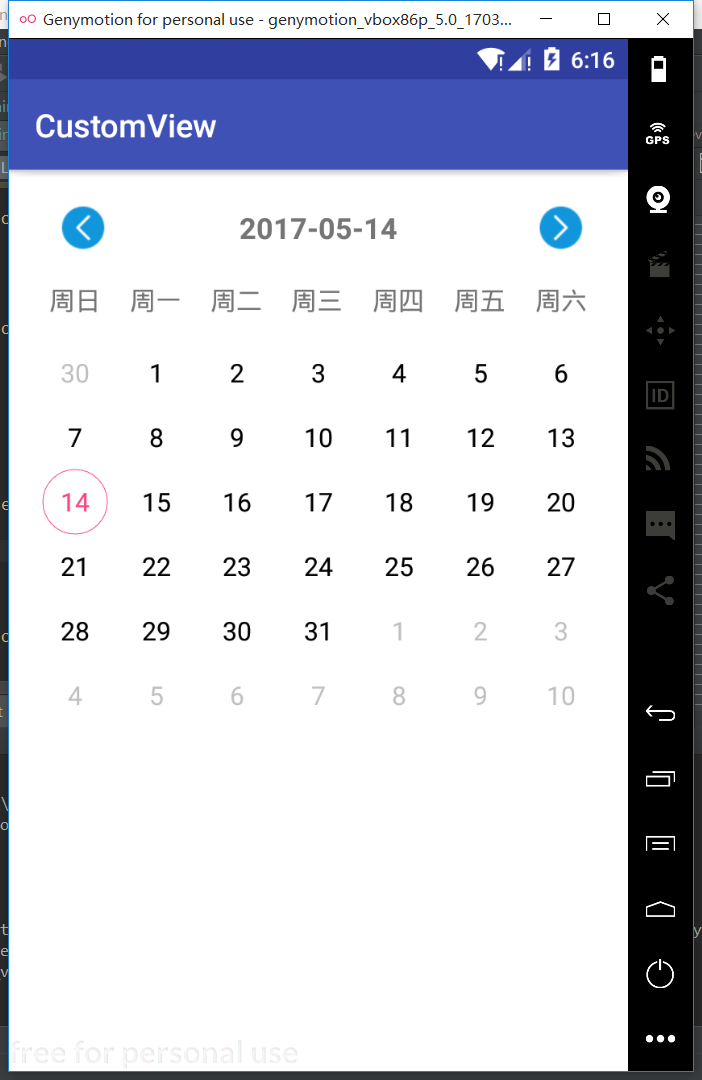
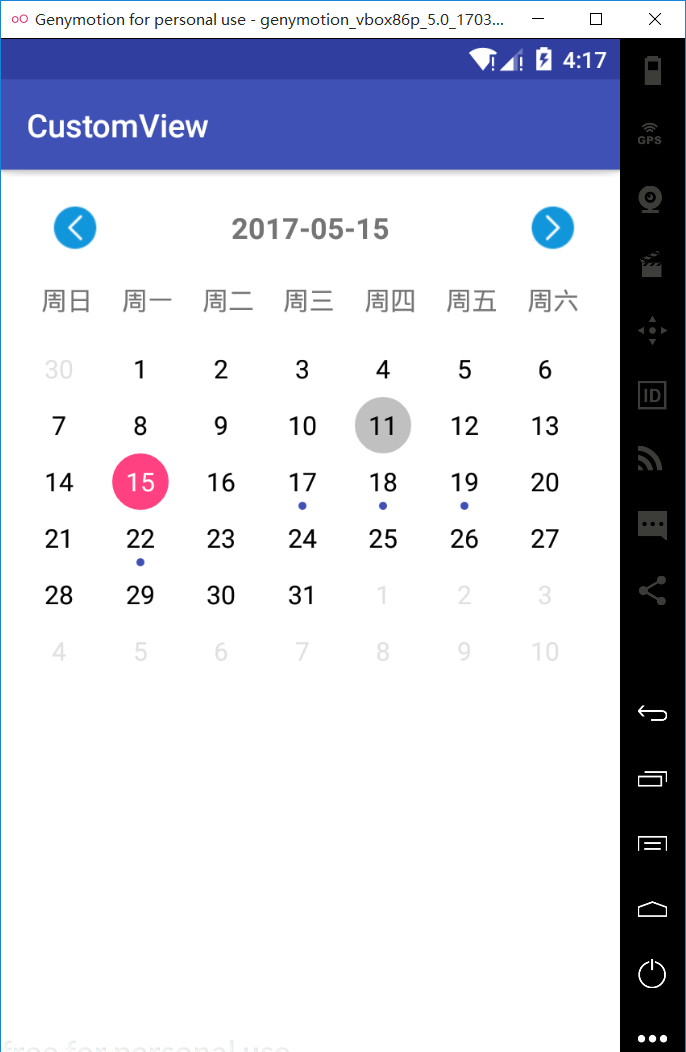
对日历进行了优化改进

diff --git a/app/src/main/java/com/wxx/customview/calendar/CalendarAdapter.java b/app/src/main/java/com/wxx/customview/calendar/CalendarAdapter.java
@@ -1,6 +1,8 @@
 package com.wxx.customview.calendar;
 
+import android.content.Context;
 import android.graphics.Color;
+import android.graphics.drawable.Drawable;
 import android.support.v7.widget.RecyclerView;
 import android.text.TextUtils;
 import android.util.Log;
@@ -15,6 +17,7 @@ import com.wxx.customview.circlebgtextview.CircleBgTextView;
 
 import java.util.ArrayList;
 import java.util.Date;
+import java.util.List;
 
 /**
  * 作者：Tangren on 2017/5/14 15:27
@@ -23,7 +26,7 @@ import java.util.Date;
  */
 public class CalendarAdapter extends RecyclerView.Adapter {
 
-    private ArrayList<Date> list=new ArrayList<>();
+    private ArrayList<Date> list = new ArrayList<>();
 
     private int currentPageMonth;
 
@@ -34,10 +37,13 @@ public class CalendarAdapter extends RecyclerView.Adapter {
 
     private int mLastCheckedPostion = -1;
 
+    private List<String> signList = new ArrayList<>();
+
     private static final String TAG = "CalendarAdapter";
+    private Context context;
 
-    public CalendarAdapter() {
-
+    public CalendarAdapter(Context context) {
+        this.context = context;
     }
 
     public void setAdd(ArrayList<Date> list, int currentPageMonth) {
@@ -46,6 +52,12 @@ public class CalendarAdapter extends RecyclerView.Adapter {
         this.currentPageMonth = currentPageMonth;
         mBooleanArray = new SparseBooleanArray(list.size());
     }
+
+    public void setAddSign(List<String> signList) {
+        this.signList.clear();
+        this.signList.addAll(signList);
+    }
+
 
     private LayoutInflater inflater;
 
@@ -75,10 +87,22 @@ public class CalendarAdapter extends RecyclerView.Adapter {
             calendarHolder.textView.setBackgroundResource(R.drawable.circle_shape);
         }
 
+
         if (!mBooleanArray.get(position) && !Util.isSameDate(date)) {
             ((CalendarHolder) holder).textView.setBackgroundResource(0);
         } else if (mBooleanArray.get(position) && !Util.isSameDate(date)) {
             ((CalendarHolder) holder).textView.setBackgroundResource(R.drawable.circle_shape_checked);
+        }
+
+
+        if (signList.size() > 0) {
+            for (int i = 0; i < signList.size(); i++) {
+                if (TextUtils.equals(Util.getTime(date), signList.get(i))) {
+                    Drawable drawable = context.getResources().getDrawable(R.drawable.circle_shape_smal);
+                    drawable.setBounds(0, 0, drawable.getMinimumWidth(), drawable.getMinimumHeight());
+                    calendarHolder.textView.setCompoundDrawables(null, null, null, drawable);
+                }
+            }
         }
 
         calendarHolder.textView.setText(String.valueOf(date.getDate()));

diff --git a/app/src/main/java/com/wxx/customview/MainActivity.java b/app/src/main/java/com/wxx/customview/MainActivity.java
@@ -17,6 +17,7 @@ import com.wxx.customview.paopaochuang.PaoPao;
 import java.text.SimpleDateFormat;
 import java.util.ArrayList;
 import java.util.Date;
+import java.util.List;
 
 public class MainActivity extends AppCompatActivity implements View.OnClickListener, TRCalendar.CalendarListener {
 
@@ -28,6 +29,7 @@ public class MainActivity extends AppCompatActivity implements View.OnClickListe
 
     private PaoPao pao;
     private TRCalendar tRcalendar;
+    private List<String> signList = new ArrayList<>();
 
     @Override
     protected void onCreate(Bundle savedInstanceState) {
@@ -36,7 +38,18 @@ public class MainActivity extends AppCompatActivity implements View.OnClickListe
         activity_main = (LinearLayout) findViewById(R.id.activity_main);
         seekBar = (SeekBar) findViewById(R.id.seekBar);
         panView = (BoardView) findViewById(R.id.panView);
+
         tRcalendar = (TRCalendar) findViewById(R.id.tRcalendar);
+        tRcalendar.setListener(this);
+        signList.add("2017-05-17");
+        signList.add("2017-05-18");
+        signList.add("2017-05-19");
+        signList.add("2017-05-22");
+        signList.add("2017-07-22");
+        signList.add("2017-09-22");
+        signList.add("2017-10-22");
+
+        tRcalendar.setAddDateSign(signList);
         activity_main.setOnClickListener(this);
         animation = new MyAnimation();
         animation.setDuration(1000);
@@ -62,7 +75,6 @@ public class MainActivity extends AppCompatActivity implements View.OnClickListe
             }
         });
 
-        tRcalendar.setListener(this);
 
     }
 

diff --git a/app/src/main/java/com/wxx/customview/calendar/TRCalendar.java b/app/src/main/java/com/wxx/customview/calendar/TRCalendar.java
@@ -17,6 +17,7 @@ import java.text.SimpleDateFormat;
 import java.util.ArrayList;
 import java.util.Calendar;
 import java.util.Date;
+import java.util.List;
 
 /**
  * 作者：Tangren on 2017/5/14 10:42
@@ -44,6 +45,8 @@ public class TRCalendar extends LinearLayout implements View.OnClickListener, On
 
     private int currentPostion = -1;
 
+    private List<String> signList = new ArrayList<>();
+
     public TRCalendar(Context context) {
         this(context, null);
     }
@@ -70,7 +73,7 @@ public class TRCalendar extends LinearLayout implements View.OnClickListener, On
         next.setOnClickListener(this);
         manager = new GridLayoutManager(context, 7);
         gridView.setLayoutManager(manager);
-        mAdapter = new CalendarAdapter();
+        mAdapter = new CalendarAdapter(context);
         mAdapter.setOnClick(this);
         mAdapter.setOnLongClick(this);
     }
@@ -140,5 +143,12 @@ public class TRCalendar extends LinearLayout implements View.OnClickListener, On
         void setOnIteclick(ArrayList<Date> list, int postion);
     }
 
+
+    public void setAddDateSign(List<String> dateSignList) {
+        if (dateSignList == null || dateSignList.size() == 0) return;
+        signList.addAll(dateSignList);
+        if (mAdapter == null) return;
+        mAdapter.setAddSign(signList);
+    }
 
 }

diff --git a/app/src/main/java/com/wxx/customview/calendar/Util.java b/app/src/main/java/com/wxx/customview/calendar/Util.java
@@ -2,6 +2,7 @@ package com.wxx.customview.calendar;
 
 import android.util.Log;
 
+import java.text.SimpleDateFormat;
 import java.util.Calendar;
 import java.util.Date;
 
@@ -13,6 +14,8 @@ import java.util.Date;
 public class Util {
 
     private static final String TAG = "Util";
+
+    private static SimpleDateFormat format = new SimpleDateFormat("yyyy-MM-dd");
 
     public static Date getCurrentDate = new Date();
 
@@ -58,10 +61,12 @@ public class Util {
      * @return
      */
     public static boolean isSameMonth(int currentPageMonth, Date date2) {
-        Log.d(TAG, "传入当前页面的月份：currentPageMonth=" + currentPageMonth);
-        Log.d(TAG, "传入的月份：date2=" + date2.getMonth());
         if (currentPageMonth == date2.getMonth())
             return true;
         return false;
+    }
+
+    public static String getTime(Date date) {
+        return format.format(date);
     }
 }
